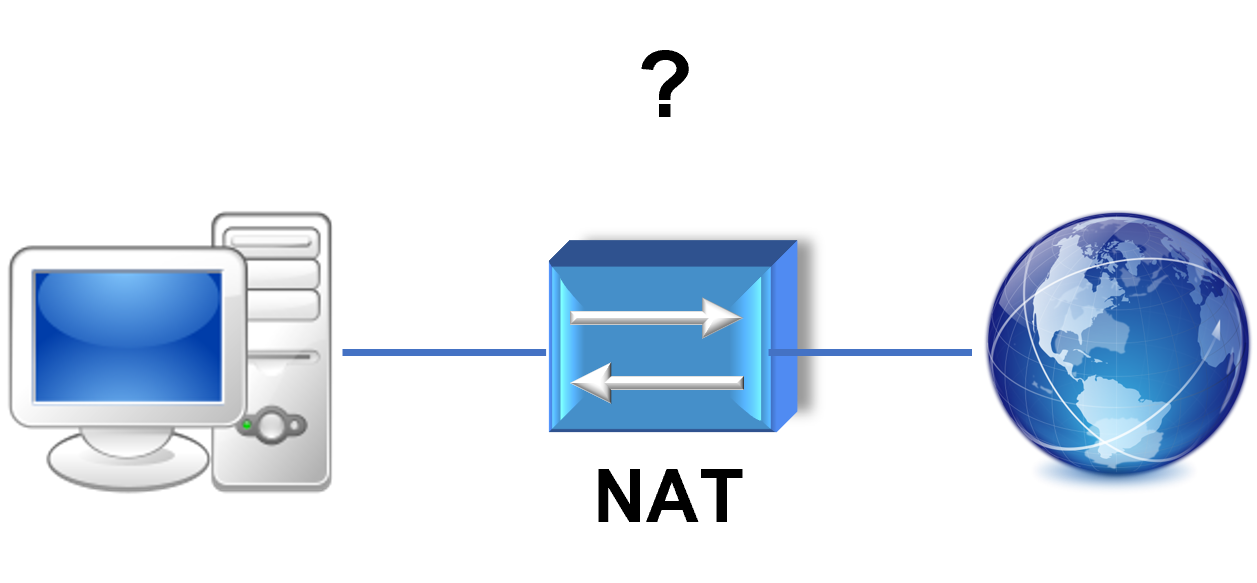
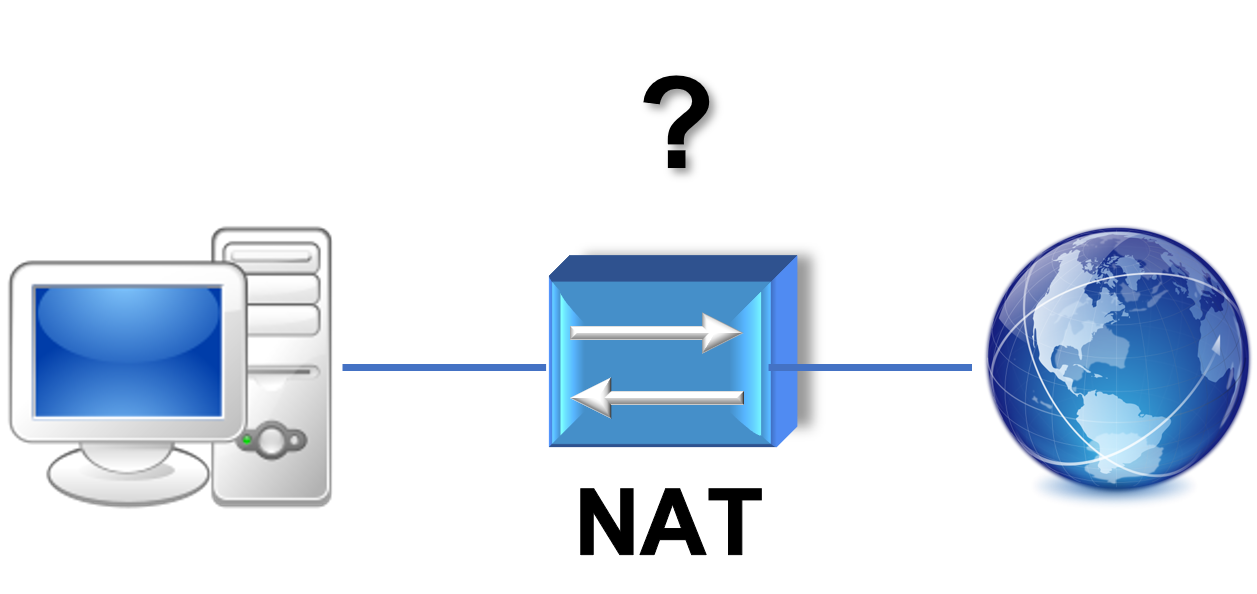
- Migliorata la scrittura del codice generato automaticamente - Migliorata rappresentazione UnknownNAT

diff --git a/src/view/STUNATView.py b/src/view/STUNATView.py
@@ -1,186 +1,186 @@
-# -*- coding: utf-8 -*-
-
-# Form implementation generated from reading ui file 'untitled.ui'
-#
-# Created by: PyQt5 UI code generator 5.15.4
-#
-# WARNING: Any manual changes made to this file will be lost when pyuic5 is
-# run again.  Do not edit this file unless you know what you are doing.
-
-
 from PyQt5 import QtCore, QtGui, QtWidgets
 
 
-class Ui_MainWindow(object):
-    def setupUi(self, MainWindow):
-        MainWindow.setObjectName("MainWindow")
-        MainWindow.resize(460, 280)
-        MainWindow.setMinimumSize(QtCore.QSize(460, 280))
-        MainWindow.setMaximumSize(QtCore.QSize(460, 280))
-        MainWindow.setWindowTitle("STUNAT Desktop")
-        self.centralwidget = QtWidgets.QWidget(MainWindow)
-        self.centralwidget.setObjectName("centralwidget")
-        self.tabWidget_2 = QtWidgets.QTabWidget(self.centralwidget)
-        self.tabWidget_2.setGeometry(QtCore.QRect(10, 10, 442, 262))
-        self.tabWidget_2.setObjectName("tabWidget_2")
-        self.tab_3 = QtWidgets.QWidget()
-        self.tab_3.setObjectName("tab_3")
-        self.gridLayout_3 = QtWidgets.QGridLayout(self.tab_3)
-        self.gridLayout_3.setObjectName("gridLayout_3")
-        self.groupBox_4 = QtWidgets.QGroupBox(self.tab_3)
-        sizePolicy = QtWidgets.QSizePolicy(QtWidgets.QSizePolicy.Fixed, QtWidgets.QSizePolicy.Fixed)
-        sizePolicy.setHorizontalStretch(0)
-        sizePolicy.setVerticalStretch(0)
-        sizePolicy.setHeightForWidth(self.groupBox_4.sizePolicy().hasHeightForWidth())
-        self.groupBox_4.setSizePolicy(sizePolicy)
-        self.groupBox_4.setMinimumSize(QtCore.QSize(207, 0))
-        self.groupBox_4.setMaximumSize(QtCore.QSize(207, 16777215))
-        self.groupBox_4.setTitle("")
-        self.groupBox_4.setObjectName("groupBox_4")
-        self.gridLayout_4 = QtWidgets.QGridLayout(self.groupBox_4)
-        self.gridLayout_4.setObjectName("gridLayout_4")
-        self.label_14 = QtWidgets.QLabel(self.groupBox_4)
-        self.label_14.setObjectName("label_14")
-        self.gridLayout_4.addWidget(self.label_14, 1, 0, 1, 1)
-        self.label_15 = QtWidgets.QLabel(self.groupBox_4)
-        self.label_15.setObjectName("label_15")
-        self.gridLayout_4.addWidget(self.label_15, 0, 0, 1, 1)
-        self.label_16 = QtWidgets.QLabel(self.groupBox_4)
-        self.label_16.setText("255.255.255.255")
-        self.label_16.setObjectName("label_16")
-        self.gridLayout_4.addWidget(self.label_16, 1, 1, 1, 1)
-        self.label_17 = QtWidgets.QLabel(self.groupBox_4)
-        self.label_17.setText("Symmetric UDP Firewall")
-        self.label_17.setObjectName("label_17")
-        self.gridLayout_4.addWidget(self.label_17, 0, 1, 1, 1)
-        self.label_18 = QtWidgets.QLabel(self.groupBox_4)
-        self.label_18.setObjectName("label_18")
-        self.gridLayout_4.addWidget(self.label_18, 2, 0, 1, 1)
-        self.label_19 = QtWidgets.QLabel(self.groupBox_4)
-        self.label_19.setText("65536")
-        self.label_19.setObjectName("label_19")
-        self.gridLayout_4.addWidget(self.label_19, 2, 1, 1, 1)
-        self.gridLayout_3.addWidget(self.groupBox_4, 2, 0, 1, 1)
-        self.label_20 = QtWidgets.QLabel(self.tab_3)
-        sizePolicy = QtWidgets.QSizePolicy(QtWidgets.QSizePolicy.Fixed, QtWidgets.QSizePolicy.Preferred)
-        sizePolicy.setHorizontalStretch(0)
-        sizePolicy.setVerticalStretch(0)
-        sizePolicy.setHeightForWidth(self.label_20.sizePolicy().hasHeightForWidth())
-        self.label_20.setSizePolicy(sizePolicy)
-        self.label_20.setMinimumSize(QtCore.QSize(205, 0))
-        self.label_20.setMaximumSize(QtCore.QSize(205, 16777215))
-        self.label_20.setText("")
-        self.label_20.setPixmap(QtGui.QPixmap("res/UnknownNAT.png"))
-        self.label_20.setScaledContents(True)
-        self.label_20.setObjectName("label_20")
-        self.gridLayout_3.addWidget(self.label_20, 2, 1, 1, 1)
-        self.label_21 = QtWidgets.QLabel(self.tab_3)
+class STUNATView(QtWidgets.QMainWindow):
+    def __init__(self):
+        super().__init__()
+
+        self.setObjectName("STUNATView")
+        self.setWindowTitle("STUNAT Desktop")
+
+        self.resize(460, 280)
+        self.setFixedSize(QtCore.QSize(460, 280))
+
+        self.centralWidget = QtWidgets.QWidget(self)
+        self.centralWidget.setObjectName("centralWidget")
+
+        self.tabWidget = QtWidgets.QTabWidget(self.centralWidget)
+        self.tabWidget.setGeometry(QtCore.QRect(10, 10, 442, 262))
+        self.tabWidget.setObjectName("tabWidget")
+
+        self.homeTab = QtWidgets.QWidget()
+        self.homeTab.setObjectName("homeTab")
+        self.tabWidget.addTab(self.homeTab, "STUNAT")
+
+        self.homeTabGridLayout = QtWidgets.QGridLayout(self.homeTab)
+        self.homeTabGridLayout.setObjectName("homeTabGridLayout")
+
+        self.homeTitleLabel = QtWidgets.QLabel(self.homeTab)
         sizePolicy = QtWidgets.QSizePolicy(QtWidgets.QSizePolicy.Preferred, QtWidgets.QSizePolicy.Fixed)
-        sizePolicy.setHorizontalStretch(0)
-        sizePolicy.setVerticalStretch(0)
-        sizePolicy.setHeightForWidth(self.label_21.sizePolicy().hasHeightForWidth())
-        self.label_21.setSizePolicy(sizePolicy)
-        self.label_21.setAlignment(QtCore.Qt.AlignHCenter|QtCore.Qt.AlignTop)
-        self.label_21.setObjectName("label_21")
-        self.gridLayout_3.addWidget(self.label_21, 1, 0, 1, 2)
-        self.label_22 = QtWidgets.QLabel(self.tab_3)
+        self.homeTitleLabel.setSizePolicy(sizePolicy)
+        self.homeTitleLabel.setText("STUNAT")
+        self.homeTitleLabel.setStyleSheet("font-size:14pt; font-weight:600;")
+        self.homeTitleLabel.setAlignment(QtCore.Qt.AlignHCenter | QtCore.Qt.AlignTop)
+        self.homeTitleLabel.setObjectName("homeTitleLabel")
+        self.homeTabGridLayout.addWidget(self.homeTitleLabel, 0, 0, 1, 2)
+
+        self.homeDescriptionLabel = QtWidgets.QLabel(self.homeTab)
         sizePolicy = QtWidgets.QSizePolicy(QtWidgets.QSizePolicy.Preferred, QtWidgets.QSizePolicy.Fixed)
-        sizePolicy.setHorizontalStretch(0)
-        sizePolicy.setVerticalStretch(0)
-        sizePolicy.setHeightForWidth(self.label_22.sizePolicy().hasHeightForWidth())
-        self.label_22.setSizePolicy(sizePolicy)
-        self.label_22.setText("<html><head/><body><p><span style=\" font-size:14pt; font-weight:600;\">STUNAT</span></p></body></html>")
-        self.label_22.setAlignment(QtCore.Qt.AlignHCenter|QtCore.Qt.AlignTop)
-        self.label_22.setTextInteractionFlags(QtCore.Qt.NoTextInteraction)
-        self.label_22.setObjectName("label_22")
-        self.gridLayout_3.addWidget(self.label_22, 0, 0, 1, 2)
-        self.pushButton_2 = QtWidgets.QPushButton(self.tab_3)
+        self.homeDescriptionLabel.setSizePolicy(sizePolicy)
+        self.homeDescriptionLabel.setAlignment(QtCore.Qt.AlignHCenter | QtCore.Qt.AlignTop)
+        self.homeDescriptionLabel.setObjectName("homeDescriptionLabel")
+        self.homeTabGridLayout.addWidget(self.homeDescriptionLabel, 1, 0, 1, 2)
+
+        self.resultsGroupBox = QtWidgets.QGroupBox(self.homeTab)
+        self.resultsGroupBox.setObjectName("resultsGroupBox")
+        self.resultsGroupBox.setSizePolicy(
+            QtWidgets.QSizePolicy(QtWidgets.QSizePolicy.Fixed, QtWidgets.QSizePolicy.Fixed))
+        self.resultsGroupBox.setFixedWidth(207)
+        self.homeTabGridLayout.addWidget(self.resultsGroupBox, 2, 0, 1, 1)
+
+        self.resultsGroupBoxGridLayout = QtWidgets.QGridLayout(self.resultsGroupBox)
+        self.resultsGroupBoxGridLayout.setObjectName("resultsGroupBoxGridLayout")
+
+        self.natTypeLabel = QtWidgets.QLabel(self.resultsGroupBox)
+        self.natTypeLabel.setObjectName("natTypeLabel")
+        self.resultsGroupBoxGridLayout.addWidget(self.natTypeLabel, 0, 0, 1, 1)
+
+        self.extIPLabel = QtWidgets.QLabel(self.resultsGroupBox)
+        self.extIPLabel.setObjectName("extIPLabel")
+        self.resultsGroupBoxGridLayout.addWidget(self.extIPLabel, 1, 0, 1, 1)
+
+        self.extPortLabel = QtWidgets.QLabel(self.resultsGroupBox)
+        self.extPortLabel.setObjectName("extPortLabel")
+        self.resultsGroupBoxGridLayout.addWidget(self.extPortLabel, 2, 0, 1, 1)
+
+        self.natTypeResultLabel = QtWidgets.QLabel(self.resultsGroupBox)
+        self.natTypeResultLabel.setObjectName("natTypeResultLabel")
+        self.resultsGroupBoxGridLayout.addWidget(self.natTypeResultLabel, 0, 1, 1, 1)
+
+        self.extIPResultLabel = QtWidgets.QLabel(self.resultsGroupBox)
+        self.extIPResultLabel.setObjectName("extIPResultLabel")
+        self.resultsGroupBoxGridLayout.addWidget(self.extIPResultLabel, 1, 1, 1, 1)
+
+        self.extPortResultLabel = QtWidgets.QLabel(self.resultsGroupBox)
+        self.extPortResultLabel.setObjectName("extPortResultLabel")
+        self.resultsGroupBoxGridLayout.addWidget(self.extPortResultLabel, 2, 1, 1, 1)
+
+        self.natRepresentation = QtWidgets.QLabel(self.homeTab)
+        self.natRepresentation.setSizePolicy(
+            QtWidgets.QSizePolicy(QtWidgets.QSizePolicy.Fixed, QtWidgets.QSizePolicy.Preferred))
+        self.natRepresentation.setFixedWidth(205)
+        pixmap = QtGui.QPixmap("res/UnknownNAT.png")
+        self.natRepresentation.setPixmap(
+            pixmap.scaled(self.natRepresentation.width(), pixmap.height(), QtCore.Qt.KeepAspectRatio))
+        self.natRepresentation.setObjectName("natRepresentation")
+        self.homeTabGridLayout.addWidget(self.natRepresentation, 2, 1, 1, 1)
+
+        self.startButton = QtWidgets.QPushButton(self.homeTab)
         sizePolicy = QtWidgets.QSizePolicy(QtWidgets.QSizePolicy.Fixed, QtWidgets.QSizePolicy.Fixed)
-        sizePolicy.setHorizontalStretch(0)
-        sizePolicy.setVerticalStretch(0)
-        sizePolicy.setHeightForWidth(self.pushButton_2.sizePolicy().hasHeightForWidth())
-        self.pushButton_2.setSizePolicy(sizePolicy)
-        self.pushButton_2.setObjectName("pushButton_2")
-        self.gridLayout_3.addWidget(self.pushButton_2, 3, 0, 1, 2, QtCore.Qt.AlignHCenter)
-        self.tabWidget_2.addTab(self.tab_3, "STUNAT")
-        self.tab_4 = QtWidgets.QWidget()
-        self.tab_4.setObjectName("tab_4")
-        self.verticalLayout_3 = QtWidgets.QVBoxLayout(self.tab_4)
-        self.verticalLayout_3.setObjectName("verticalLayout_3")
-        self.groupBox_5 = QtWidgets.QGroupBox(self.tab_4)
-        self.groupBox_5.setChecked(False)
-        self.groupBox_5.setObjectName("groupBox_5")
-        self.horizontalLayout_2 = QtWidgets.QHBoxLayout(self.groupBox_5)
-        self.horizontalLayout_2.setObjectName("horizontalLayout_2")
-        self.label_23 = QtWidgets.QLabel(self.groupBox_5)
-        self.label_23.setObjectName("label_23")
-        self.horizontalLayout_2.addWidget(self.label_23)
-        self.lineEdit_3 = QtWidgets.QLineEdit(self.groupBox_5)
-        self.lineEdit_3.setInputMask("")
-        self.lineEdit_3.setText("stun.sipgate.net")
-        self.lineEdit_3.setObjectName("lineEdit_3")
-        self.horizontalLayout_2.addWidget(self.lineEdit_3)
-        self.label_24 = QtWidgets.QLabel(self.groupBox_5)
-        self.label_24.setObjectName("label_24")
-        self.horizontalLayout_2.addWidget(self.label_24)
-        self.lineEdit_5 = QtWidgets.QLineEdit(self.groupBox_5)
-        self.lineEdit_5.setMinimumSize(QtCore.QSize(50, 0))
-        self.lineEdit_5.setMaximumSize(QtCore.QSize(50, 16777215))
-        self.lineEdit_5.setInputMask("")
-        self.lineEdit_5.setText("3478")
-        self.lineEdit_5.setMaxLength(5)
-        self.lineEdit_5.setObjectName("lineEdit_5")
-        self.horizontalLayout_2.addWidget(self.lineEdit_5)
-        self.verticalLayout_3.addWidget(self.groupBox_5)
-        self.groupBox_6 = QtWidgets.QGroupBox(self.tab_4)
-        self.groupBox_6.setObjectName("groupBox_6")
-        self.horizontalLayout_4 = QtWidgets.QHBoxLayout(self.groupBox_6)
-        self.horizontalLayout_4.setObjectName("horizontalLayout_4")
-        self.label_25 = QtWidgets.QLabel(self.groupBox_6)
-        self.label_25.setObjectName("label_25")
-        self.horizontalLayout_4.addWidget(self.label_25)
-        self.comboBox_2 = QtWidgets.QComboBox(self.groupBox_6)
+        self.startButton.setSizePolicy(sizePolicy)
+        self.startButton.setObjectName("startButton")
+        self.homeTabGridLayout.addWidget(self.startButton, 3, 0, 1, 2, QtCore.Qt.AlignHCenter)
+
+        self.optionsTab = QtWidgets.QWidget()
+        self.optionsTab.setObjectName("optionsTab")
+        self.tabWidget.addTab(self.optionsTab, "")
+
+        self.optionsTabVLayout = QtWidgets.QVBoxLayout(self.optionsTab)
+        self.optionsTabVLayout.setObjectName("optionsTabVLayout")
+
+        self.stunServerGroupBox = QtWidgets.QGroupBox(self.optionsTab)
+        self.stunServerGroupBox.setChecked(False)
+        self.stunServerGroupBox.setObjectName("stunServerGroupBox")
+        self.optionsTabVLayout.addWidget(self.stunServerGroupBox)
+
+        self.stunServerGroupBoxHLayout = QtWidgets.QHBoxLayout(self.stunServerGroupBox)
+        self.stunServerGroupBoxHLayout.setObjectName("stunServerGroupBoxHLayout")
+
+        self.serverHostnameLabel = QtWidgets.QLabel(self.stunServerGroupBox)
+        self.serverHostnameLabel.setObjectName("serverHostnameLabel")
+        self.stunServerGroupBoxHLayout.addWidget(self.serverHostnameLabel)
+
+        self.serverHostnameField = QtWidgets.QLineEdit(self.stunServerGroupBox)
+        self.serverHostnameField.setInputMask("")  # TODO
+        self.serverHostnameField.setText("stun.sipgate.net")
+        self.serverHostnameField.setObjectName("serverHostnameField")
+        self.stunServerGroupBoxHLayout.addWidget(self.serverHostnameField)
+
+        self.serverPortLabel = QtWidgets.QLabel(self.stunServerGroupBox)
+        self.serverPortLabel.setObjectName("serverPortLabel")
+        self.stunServerGroupBoxHLayout.addWidget(self.serverPortLabel)
+
+        self.serverPortField = QtWidgets.QLineEdit(self.stunServerGroupBox)
+        self.serverPortField.setFixedWidth(50)
+        self.serverPortField.setInputMask("")  # TODO
+        self.serverPortField.setText("3478")
+        self.serverPortField.setMaxLength(5)
+        self.serverPortField.setObjectName("serverPortField")
+        self.stunServerGroupBoxHLayout.addWidget(self.serverPortField)
+
+        self.netParamsGroupBox = QtWidgets.QGroupBox(self.optionsTab)
+        self.netParamsGroupBox.setObjectName("netParamsGroupBox")
+        self.optionsTabVLayout.addWidget(self.netParamsGroupBox)
+
+        self.netParamsGroupBoxHLayout = QtWidgets.QHBoxLayout(self.netParamsGroupBox)
+        self.netParamsGroupBoxHLayout.setObjectName("netParamsGroupBoxHLayout")
+
+        self.sourceInterfaceLabel = QtWidgets.QLabel(self.netParamsGroupBox)
+        self.sourceInterfaceLabel.setObjectName("sourceInterfaceLabel")
+        self.netParamsGroupBoxHLayout.addWidget(self.sourceInterfaceLabel)
+
+        self.sourceInterfaceComboBox = QtWidgets.QComboBox(self.netParamsGroupBox)
         sizePolicy = QtWidgets.QSizePolicy(QtWidgets.QSizePolicy.Expanding, QtWidgets.QSizePolicy.Fixed)
-        sizePolicy.setHorizontalStretch(0)
-        sizePolicy.setVerticalStretch(0)
-        sizePolicy.setHeightForWidth(self.comboBox_2.sizePolicy().hasHeightForWidth())
-        self.comboBox_2.setSizePolicy(sizePolicy)
-        self.comboBox_2.setObjectName("comboBox_2")
-        self.horizontalLayout_4.addWidget(self.comboBox_2)
-        self.label_26 = QtWidgets.QLabel(self.groupBox_6)
-        self.label_26.setObjectName("label_26")
-        self.horizontalLayout_4.addWidget(self.label_26)
-        self.lineEdit_6 = QtWidgets.QLineEdit(self.groupBox_6)
-        self.lineEdit_6.setMinimumSize(QtCore.QSize(50, 0))
-        self.lineEdit_6.setMaximumSize(QtCore.QSize(50, 16777215))
-        self.lineEdit_6.setInputMask("")
-        self.lineEdit_6.setText("65536")
-        self.lineEdit_6.setMaxLength(5)
-        self.lineEdit_6.setObjectName("lineEdit_6")
-        self.horizontalLayout_4.addWidget(self.lineEdit_6)
-        self.verticalLayout_3.addWidget(self.groupBox_6)
-        self.checkBox_2 = QtWidgets.QCheckBox(self.tab_4)
-        self.checkBox_2.setObjectName("checkBox_2")
-        self.verticalLayout_3.addWidget(self.checkBox_2)
-        self.tabWidget_2.addTab(self.tab_4, "")
-        MainWindow.setCentralWidget(self.centralwidget)
+        self.sourceInterfaceComboBox.setSizePolicy(sizePolicy)
+        self.sourceInterfaceComboBox.setObjectName("sourceInterfaceComboBox")
+        self.netParamsGroupBoxHLayout.addWidget(self.sourceInterfaceComboBox)
 
-        self.retranslateUi(MainWindow)
-        self.tabWidget_2.setCurrentIndex(0)
-        QtCore.QMetaObject.connectSlotsByName(MainWindow)
+        self.localPortLabel = QtWidgets.QLabel(self.netParamsGroupBox)
+        self.localPortLabel.setObjectName("localPortLabel")
+        self.netParamsGroupBoxHLayout.addWidget(self.localPortLabel)
 
-    def retranslateUi(self, MainWindow):
+        self.localPortField = QtWidgets.QLineEdit(self.netParamsGroupBox)
+        self.localPortField.setFixedWidth(50)
+        self.localPortField.setInputMask("")  # TODO
+        self.localPortField.setText("65536")
+        self.localPortField.setMaxLength(5)
+        self.localPortField.setObjectName("localPortField")
+        self.netParamsGroupBoxHLayout.addWidget(self.localPortField)
+
+        self.showLogCheckBox = QtWidgets.QCheckBox(self.optionsTab)
+        self.showLogCheckBox.setObjectName("showLogCheckBox")
+        self.optionsTabVLayout.addWidget(self.showLogCheckBox)
+
+        self.setCentralWidget(self.centralWidget)
+
+        self.retranslateUi()
+        self.tabWidget.setCurrentIndex(0)
+
+    def retranslateUi(self):
         _translate = QtCore.QCoreApplication.translate
-        self.label_14.setText(_translate("MainWindow", "<html><head/><body><p>Indirizzo IP <br> esterno:</p></body></html>"))
-        self.label_15.setText(_translate("MainWindow", "<html><head/><body><p><span style=\" font-weight:600;\">Tipo di NAT:</span></p></body></html>"))
-        self.label_18.setText(_translate("MainWindow", "Porta esterna:"))
-        self.label_21.setText(_translate("MainWindow", "Scopri il tipo di NAT presente sulla tua rete. Clicca su Inizia test e attendi il risultato."))
-        self.pushButton_2.setText(_translate("MainWindow", "Inizia test"))
-        self.groupBox_5.setTitle(_translate("MainWindow", "Server STUN"))
-        self.label_23.setText(_translate("MainWindow", "Hostname o Indirizzo IP"))
-        self.label_24.setText(_translate("MainWindow", "<html><head/><body><p>Porta</p></body></html>"))
-        self.groupBox_6.setTitle(_translate("MainWindow", "Parametri di rete"))
-        self.label_25.setText(_translate("MainWindow", "Interfaccia sorgente"))
-        self.label_26.setText(_translate("MainWindow", "<html><head/><body><p>Porta locale</p></body></html>"))
-        self.checkBox_2.setText(_translate("MainWindow", "Visualizza log avanzato"))
-        self.tabWidget_2.setTabText(self.tabWidget_2.indexOf(self.tab_4), _translate("MainWindow", "Opzioni"))
+        self.extIPLabel.setText(
+            _translate("MainWindow", "<html><head/><body><p>Indirizzo IP <br> esterno:</p></body></html>"))
+        self.natTypeLabel.setText(_translate("MainWindow",
+                                             "<html><head/><body><p><span style=\" font-weight:600;\">Tipo di NAT:</span></p></body></html>"))
+        self.extPortLabel.setText(_translate("MainWindow", "Porta esterna:"))
+        self.homeDescriptionLabel.setText(_translate("MainWindow",
+                                                     "Scopri il tipo di NAT presente sulla tua rete. Clicca su Inizia test e attendi il risultato."))
+        self.startButton.setText(_translate("MainWindow", "Inizia test"))
+        self.stunServerGroupBox.setTitle(_translate("MainWindow", "Server STUN"))
+        self.serverHostnameLabel.setText(_translate("MainWindow", "Hostname o Indirizzo IP"))
+        self.serverPortLabel.setText(_translate("MainWindow", "<html><head/><body><p>Porta</p></body></html>"))
+        self.netParamsGroupBox.setTitle(_translate("MainWindow", "Parametri di rete"))
+        self.sourceInterfaceLabel.setText(_translate("MainWindow", "Interfaccia sorgente"))
+        self.localPortLabel.setText(_translate("MainWindow", "<html><head/><body><p>Porta locale</p></body></html>"))
+        self.showLogCheckBox.setText(_translate("MainWindow", "Visualizza log avanzato"))
+        self.tabWidget.setTabText(self.tabWidget.indexOf(self.optionsTab), _translate("MainWindow", "Opzioni"))

diff --git a/src/main.py b/src/main.py
@@ -2,11 +2,9 @@ import sys
 
 from PyQt5 import QtWidgets
 
-from src.view.STUNATView import Ui_MainWindow
+from src.view.STUNATView import STUNATView
 
 app = QtWidgets.QApplication(sys.argv)
-MainWindow = QtWidgets.QMainWindow()
-ui = Ui_MainWindow()
-ui.setupUi(MainWindow)
-MainWindow.show()
+mainWindow = STUNATView()
+mainWindow.show()
 sys.exit(app.exec_())
